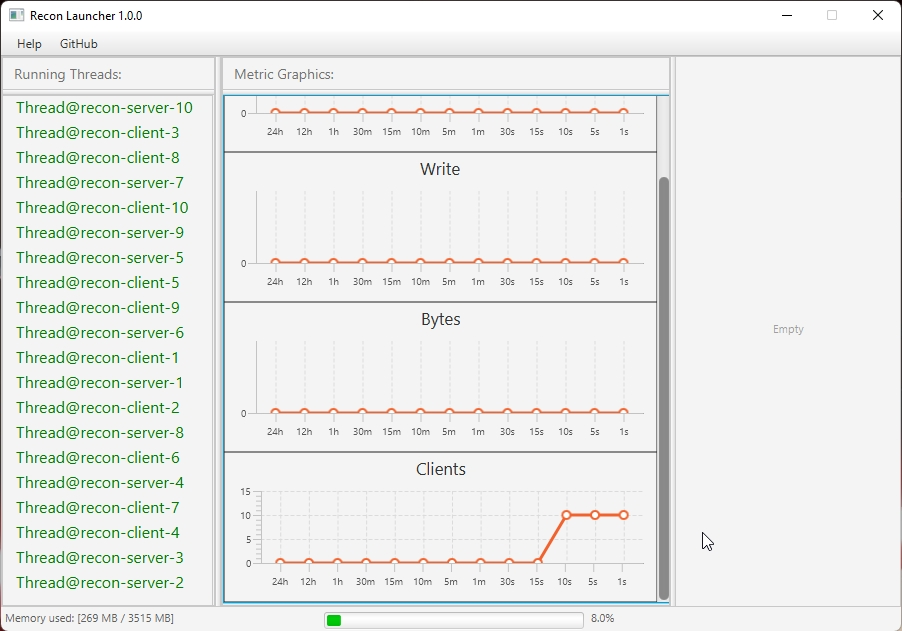
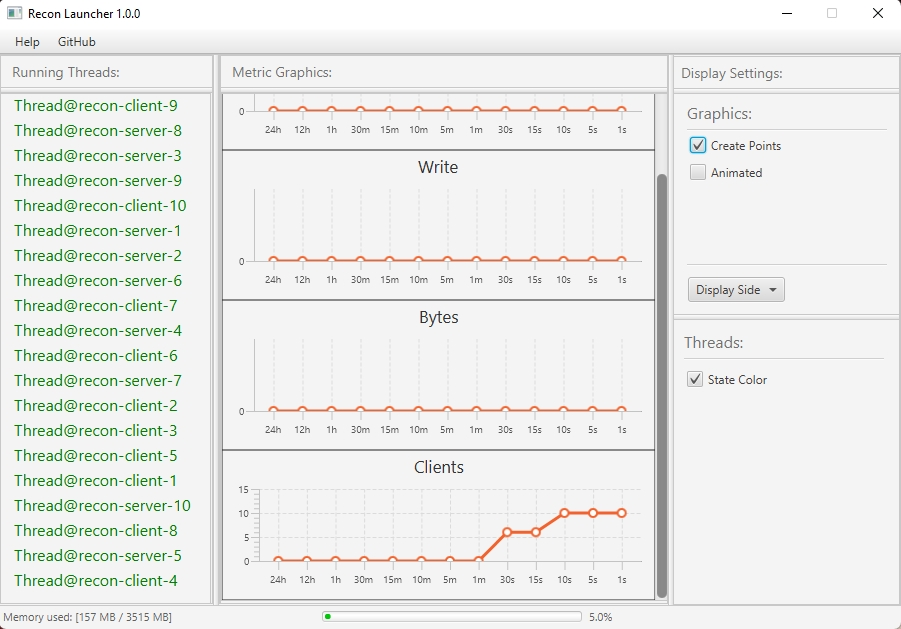
LauncherUI: Add settings pane

diff --git a/launcher-ui-recon/src/main/java/org/itzstonlex/recon/ui/controller/HomePageController.java b/launcher-ui-recon/src/main/java/org/itzstonlex/recon/ui/controller/HomePageController.java
@@ -2,15 +2,16 @@ package org.itzstonlex.recon.ui.controller;
 
 import javafx.application.Platform;
 import javafx.fxml.FXML;
-import javafx.scene.Group;
-import javafx.scene.Node;
-import javafx.scene.chart.*;
+import javafx.geometry.NodeOrientation;
+import javafx.geometry.Side;
+import javafx.scene.chart.CategoryAxis;
+import javafx.scene.chart.LineChart;
+import javafx.scene.chart.NumberAxis;
+import javafx.scene.chart.XYChart;
+import javafx.scene.control.*;
 import javafx.scene.control.Label;
-import javafx.scene.control.Menu;
 import javafx.scene.control.MenuItem;
-import javafx.scene.control.ProgressBar;
 import javafx.scene.layout.GridPane;
-import javafx.scene.layout.Region;
 import javafx.scene.paint.Color;
 import javafx.scene.text.Font;
 import org.itzstonlex.recon.metrics.MetricCounter;
@@ -22,13 +23,12 @@ import java.awt.*;
 import java.io.IOException;
 import java.net.URI;
 import java.net.URISyntaxException;
-import java.util.*;
-import java.util.List;
-import java.util.concurrent.ThreadLocalRandom;
+import java.util.Collections;
+import java.util.Comparator;
+import java.util.HashMap;
+import java.util.Map;
 import java.util.concurrent.TimeUnit;
-import java.util.concurrent.atomic.AtomicBoolean;
 import java.util.function.Consumer;
-import java.util.stream.Collectors;
 
 public final class HomePageController extends AbstractPageController {
 
@@ -63,6 +63,22 @@ public final class HomePageController extends AbstractPageController {
     private GridPane graphicsGridPane;
 
 
+    @FXML
+    private CheckBox settings_createPoints;
+
+    @FXML
+    private CheckBox settings_chartsAnimated;
+
+    @FXML
+    private MenuItem settings_displaySide_left;
+
+    @FXML
+    private MenuItem settings_displaySide_right;
+
+    @FXML
+    private CheckBox settings_stateColor;
+
+
     @Override
     public void initialize() {
         addHelpMenuActions();
@@ -72,6 +88,8 @@ public final class HomePageController extends AbstractPageController {
         startGraphicsUpdater();
 
         startMemoriesUpdater(Runtime.getRuntime());
+
+        initGraphicsDisplaySettings();
     }
 
 
@@ -94,31 +112,33 @@ public final class HomePageController extends AbstractPageController {
                         label.setFont(new Font(16));
                     }
 
-                    switch (thread.getState()) {
-                        case NEW: {
-                            label.setTextFill(Color.LIME);
-                            break;
-                        }
+                    if (settings_stateColor.isSelected()) {
+                        switch (thread.getState()) {
+                            case NEW: {
+                                label.setTextFill(Color.LIME);
+                                break;
+                            }
 
-                        case BLOCKED: {
-                            label.setTextFill(Color.RED);
-                            break;
-                        }
+                            case BLOCKED: {
+                                label.setTextFill(Color.RED);
+                                break;
+                            }
 
-                        case WAITING:
-                        case TIMED_WAITING: {
-                            label.setTextFill(Color.ORANGE);
-                            break;
-                        }
+                            case WAITING:
+                            case TIMED_WAITING: {
+                                label.setTextFill(Color.ORANGE);
+                                break;
+                            }
 
-                        case TERMINATED: {
-                            label.setTextFill(Color.DARKRED);
-                            break;
-                        }
+                            case TERMINATED: {
+                                label.setTextFill(Color.DARKRED);
+                                break;
+                            }
 
-                        case RUNNABLE: {
-                            label.setTextFill(Color.GREEN);
-                            break;
+                            case RUNNABLE: {
+                                label.setTextFill(Color.GREEN);
+                                break;
+                            }
                         }
                     }
 
@@ -142,6 +162,36 @@ public final class HomePageController extends AbstractPageController {
 
     private final Map<Integer, LineChart<String, Number>> graphicsMap
             = new HashMap<>();
+
+    private void initGraphicsDisplaySettings() {
+        settings_displaySide_left.setOnAction(event -> {
+
+            for (LineChart<String, Number> lineChart : graphicsMap.values()) {
+                lineChart.setNodeOrientation(NodeOrientation.LEFT_TO_RIGHT);
+            }
+        });
+
+        settings_displaySide_right.setOnAction(event -> {
+
+            for (LineChart<String, Number> lineChart : graphicsMap.values()) {
+                lineChart.setNodeOrientation(NodeOrientation.RIGHT_TO_LEFT);
+            }
+        });
+
+        settings_createPoints.setOnAction(event -> {
+
+            for (LineChart<String, Number> lineChart : graphicsMap.values()) {
+                lineChart.setCreateSymbols(settings_createPoints.isSelected());
+            }
+        });
+
+        settings_chartsAnimated.setOnAction(event -> {
+
+            for (LineChart<String, Number> lineChart : graphicsMap.values()) {
+                lineChart.setAnimated(settings_chartsAnimated.isSelected());
+            }
+        });
+    }
 
     private void updateGraphicNode(MetricCounter metricCounter,
                                    XYChart.Series<String, Number> series) {
@@ -174,6 +224,7 @@ public final class HomePageController extends AbstractPageController {
         NumberAxis yAxis = new NumberAxis();
 
         LineChart<String, Number> lineChart = new LineChart<>(xAxis, yAxis);
+        lineChart.setAnimated(false);
         lineChart.setTitle(title);
 
         lineChart.setAxisSortingPolicy(LineChart.SortingPolicy.X_AXIS);
@@ -215,7 +266,7 @@ public final class HomePageController extends AbstractPageController {
                 this.created = true;
             }
 
-        }.runTimer(0, 10, TimeUnit.SECONDS);
+        }.runTimer(0, 2, TimeUnit.SECONDS);
     }
 
     private void updateMemoryStatus(Runtime runtime) {
@@ -229,6 +280,10 @@ public final class HomePageController extends AbstractPageController {
     }
 
     private void startMemoriesUpdater(Runtime runtime) {
+        memoryProgress.setPrefHeight(16);
+        memoryProgress.setMinHeight(16);
+        memoryProgress.setMaxHeight(16);
+
         new TaskScheduler("memory_updater_recon") {
 
             @Override
